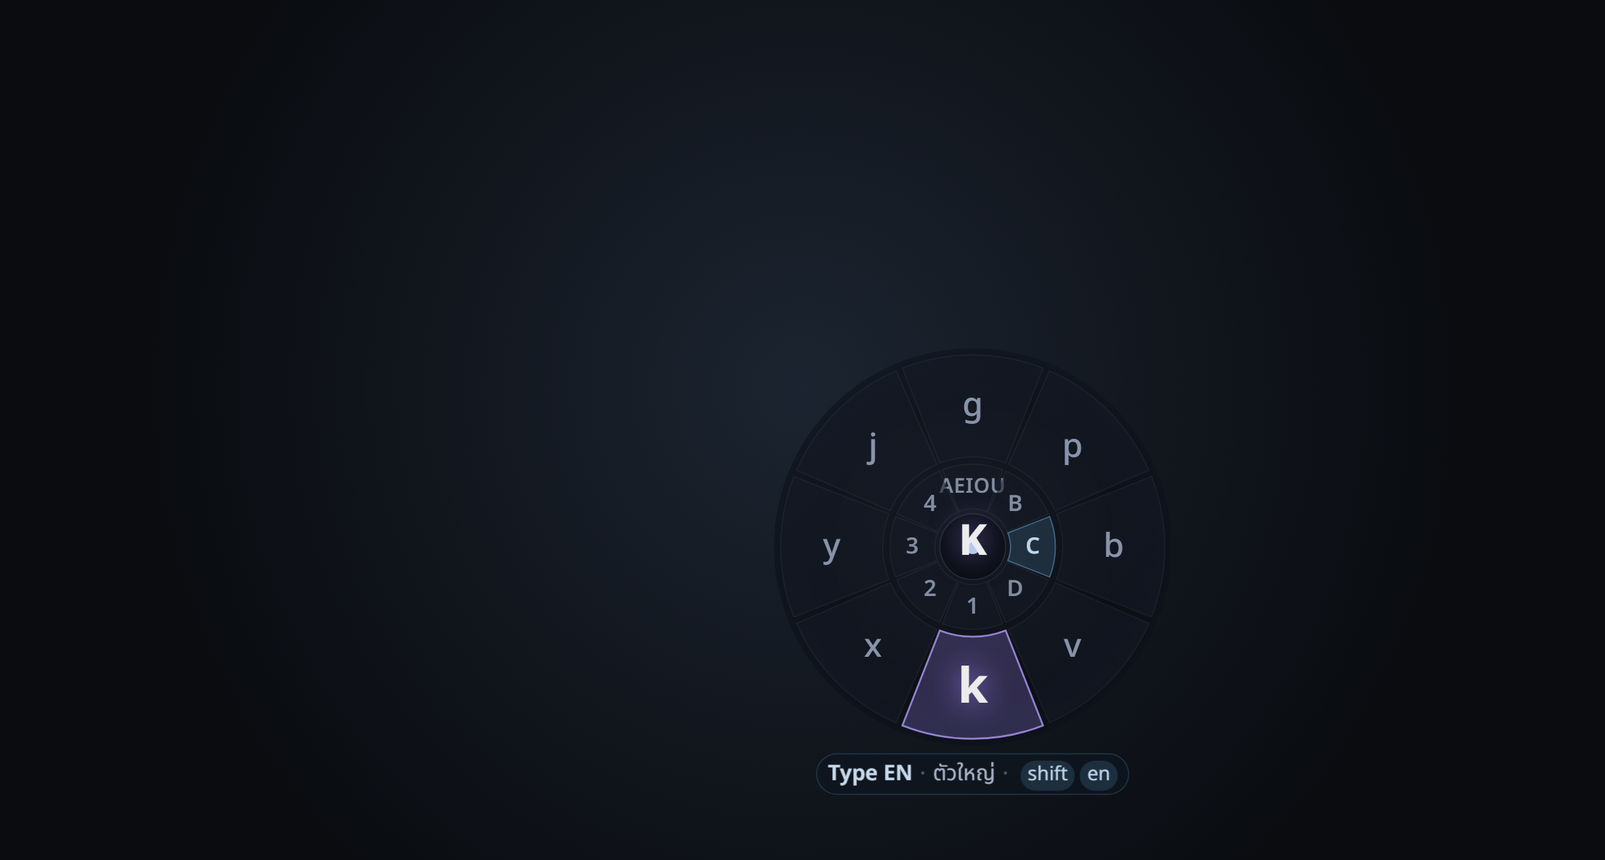
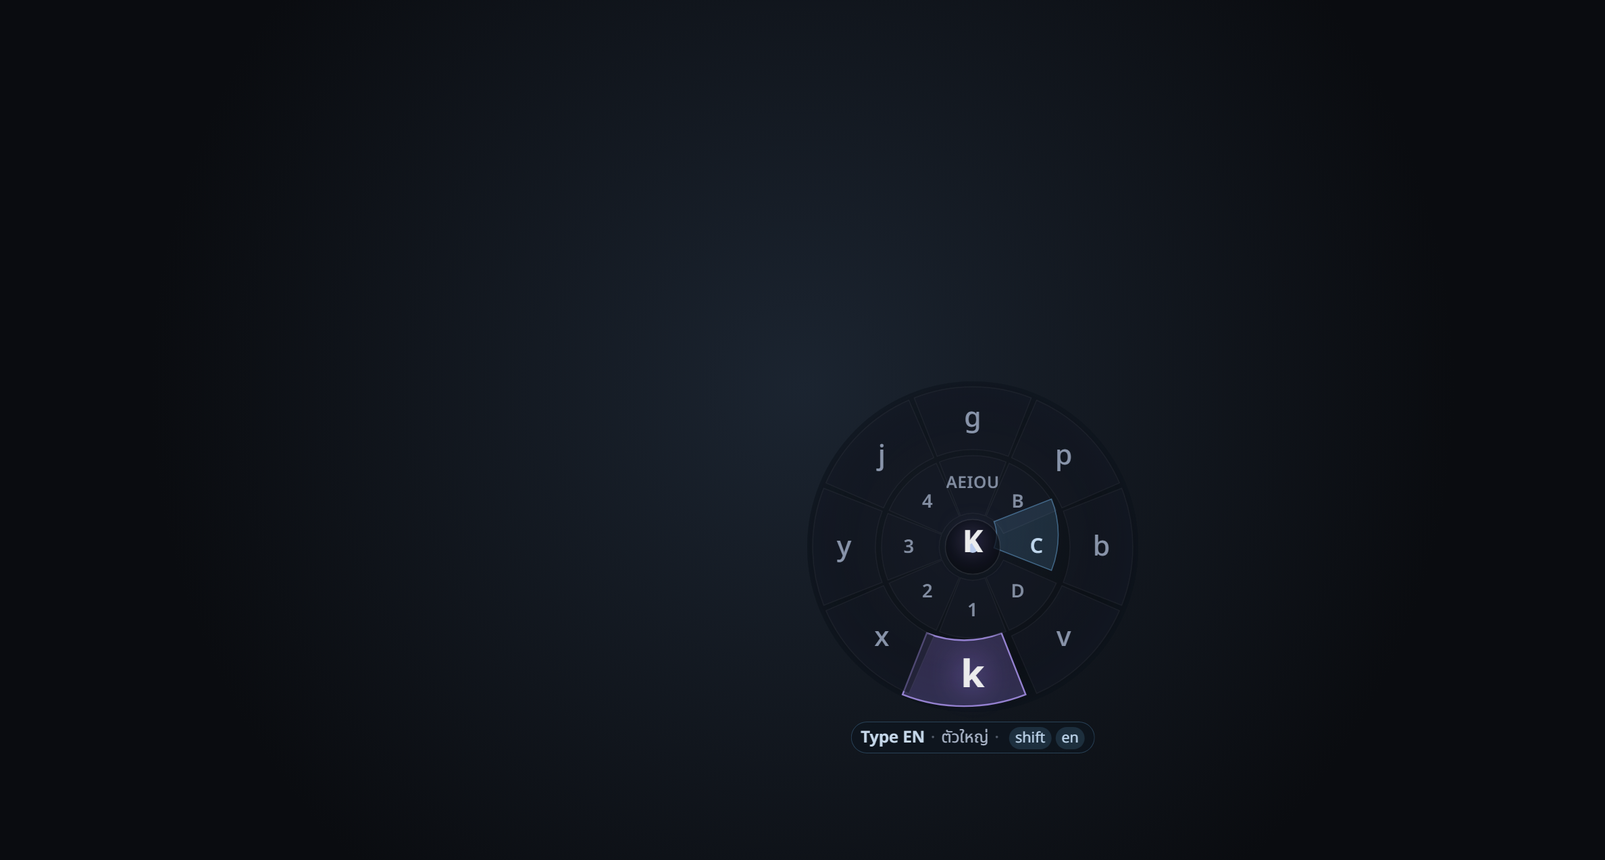
docs: ADR-17 ring geometry, handoff v0.3 with round-2 feedback, refreshed screenshots

diff --git a/project menager/Design/04-decisions/17-hud-ring-geometry-and-active-animation.md b/project menager/Design/04-decisions/17-hud-ring-geometry-and-active-animation.md
@@ -1,0 +1,109 @@
+---
+title: ADR-17 — วงเล็กลง ตัวอักษรใหญ่ขึ้น + animation ตอนเลือก + ขีดกำกับสระล่าง
+status: accepted (P4 slice 4)
+updated: 2026-11-15
+tags: [decision, hud, typography, thai, animation, settings]
+---
+
+# ADR-17 — Ring ที่เล็กลงแต่ชัดขึ้น, active animation, และเลิกใช้คำว่า "ขีดล่าง"
+
+## บริบท (feedback รอบ 2 จาก owner, 2026-11-15)
+
+1. **"ขีดล่าง"** — คำนี้โผล่ใต้สระ ุ ู อยากได้ **สัญลักษณ์** มากกว่า ถ้าไม่ได้ก็เอาคำออก
+2. **Active ควรมี animation** — ช่องที่เลือก (วงล้อ/วงตัวอักษร) ควรขยายให้เห็น
+3. **ไม่รู้จะเปิด Settings ตรงไหน** เพื่อเลื่อน text size
+4. **ขนาดวงล้อใหญ่ไปนิด** — ย่อลงได้ แต่ยังต้อง **ชัดเจน** เรื่องตัวอักษร
+
+พร้อมกันนั้น การตรวจของ session ก่อนหน้าเจอ **บั๊กในตัววัด**: `getBBox()` ของ `<text>` ไม่ serialize ผ่าน CDP
+→ ผล "ไม่ชนกัน" เป็น false positive; วัดใหม่ด้วย ink box แล้วพบว่า **วรรณยุกต์/กลาง ชนกัน 6%** ที่ text scale 1.2
+(ตรงกับที่ owner เห็นว่าอ่านยาก)
+
+## การตัดสินใจ
+
+### 1. ขนาด: วงเล็กลง + ตัวอักษรใหญ่ขึ้น (ไม่ใช่แลกกัน)
+
+| | ก่อน (ADR-16) | หลัง (ADR-17) |
+| --- | --- | --- |
+| `hudScale` (วง) | 1.2 → 408px | **1.0 → 340px** (ขนาดที่ออกแบบ) |
+| `hudTextScale` | 1.2 | **1.4** |
+| group label (จริง) | 13.8px | **15.96px** |
+| ป้ายยาว (len-m) | 12.6px | **14.28px** |
+| char | 20.4–30px | **25.2px** (เลือก = ขยายด้วย transform 1.3) |
+| pill | 13.2px | **14.0px** |
+| วงเล็กลง | — | **−17%** |
+
+ตัวคูณ 2 ตัวยังแยกกัน (ADR-16) — วงย่อได้โดยตัวอักษรไม่ย่อ
+
+### 2. วงในกว้างขึ้น เพื่อให้ป้ายไทยมีที่
+
+| | ก่อน | หลัง |
+| --- | --- | --- |
+| วงใน (กลุ่ม) | 31–68 · text r=49.5 | **33–90 · text r=63** |
+| chord ที่ text | 37.9 u | **46.7 u (+23%)** |
+| วงนอก (char) | 74–158 · text r=116 | **96–158 · text r=127** |
+| วงคำสั่ง/ภาษา | 34–96 · text r=66 | **36–112 · text r=76** |
+
+### 3. ป้ายกลุ่มยาว = 2 บรรทัด (ไม่ย่อจนอ่านไม่ออก)
+
+- ป้าย ≥ **7 grapheme cluster** → แบ่ง 2 บรรทัดครึ่งกลาง (`Intl.Segmenter('th')` — ไม่ตัดสระ/วรรณยุกต์ออกจากพยัญชนะ)
+  เช่น `วรรณยุกต์` → `วรรณ` / `ยุกต์`
+- `len-m` / `len-l` นับตาม **grapheme** ไม่ใช่ code point (พยัญชนะ = 6 clusters ไม่ใช่ 7 → ไม่ถูกย่อเกินจำเป็น)
+- ป้าย 5–6 clusters ยังบรรทัดเดียวที่ 14.28px
+
+### 4. "ขีดล่าง" → ขีดจริงเหนือสระล่าง (ทำตาม ADR-12 ที่ค้างอยู่)
+
+- `hud.js` วาด `<line class="char-guide">` เป็น **เส้นประสั้น** เหนือ ุ ู ฺ (สว่างขึ้นเมื่อถูกเลือก)
+- ลบ `"badge": "ขีดล่าง"` ออกจาก `hud-state.samples.json` + `assets/hud-demo-states.json`
+- HUD ตัดสินเองด้วยชุดอักขระ 3 ตัว (เหมือนม็อกอัป v0.11 `isBelowMark`) — ไม่เพิ่ม field ใน contract
+
+### 5. Active = ขยาย (animation)
+
+| องค์ประกอบ | effect | origin |
+| --- | --- | --- |
+| sector (group/char/cmd/lang) | `scale(1.05–1.07)` | **ศูนย์กลางวง** (`transform-box: view-box`) → ปูดออกจากกลาง |
+| label ที่เลือก | `scale(1.1–1.3)` | **กลางของตัวเอง** (`transform-box: fill-box`) |
+| เปลี่ยนจาก `font-size` → `transform` | เพื่อให้ motion เนียนและไม่ดัน layout | `transition: transform 0.2s var(--ease-out)` |
+
+`prefers-reduced-motion` ยังใช้ได้ (transition ถูกตัดให้เกือบทันที)
+
+### 6. เปิด Settings ได้จาก 2 ทาง
+
+- **คลิกซ้ายที่ไอคอน tray** (ใหม่) หรือคลิกขวา → Settings… (ไอคอนอาจอยู่ในถาดซ่อน `^`)
+- `run.ps1 -- --demo --settings` เปิดหน้าต่างมาพร้อมกัน
+- เพิ่ม **Ring size slider** (0.8–1.6) ใน Settings → HUD เพื่อปรับวงได้เองโดยไม่ต้องรอ build
+- หน้าต่าง Settings ยกตัวเองขึ้นมา (`focused` + `set_focus`) หลังสร้าง
+
+### 7. `ui.hudScale` ถูกประทับลง `HudState.scale` โดยแอป
+
+- source of truth เดียว: config → app stamp ทุกเฟรม → HUD อ่าน `state.scale`
+- `save_config` ส่ง state ปัจจุบันซ้ำทันที เพื่อให้ slider เห็นผลทันที (ไม่ต้องรอ tick ถัดไป)
+- ลำดับ lock ที่ใช้ทั้งไฟล์: **config → demo → origin** (กัน deadlock กับ thread ของ demo)
+
+## ผลที่ตามมา
+
+- `ui/hud/hud.js` — geometry ใหม่, `graphemes()`/`renderLines()`, `char-guide`, class `is-armed` บน label
+- `ui/hud/hud.css` — `--fs-*` ใหม่, transform/transition, `.char-guide`
+- `ui/settings/*` — Ring size slider, ค่าเริ่มต้น 1.4/1.0, preview ใช้ base เดียวกับ HUD
+- `crates/rnitype-app` — `hud_scale()` + stamp, re-emit หลัง save, tray left click, window focus, ขนาดหน้าต่าง 560×880
+- `tools/tests/hud-typography.mjs` — **ink box** แทน `getBBox()` (แก้ false pass), เพิ่ม 5 checks (guide, 2 บรรทัด, animation ×3, sub ของวงคำสั่ง)
+- ตัวเลขใน ADR-16 (ขนาด/ค่าเริ่มต้น) ถูกแทนที่ด้วย ADR-17 — โครงสร้างการตัดสินใจ (2 ตัวคูณ, `hud:style`, ฟอนต์) ยังใช้อยู่
+
+## หลักฐาน (2026-11-15)
+
+| หลักฐาน | ผล |
+| --- | --- |
+| `cargo test --workspace` | **91 passed** (app 7 + core 50 + win 34) |
+| `node tools/contracts/validate.mjs` | 10/10 |
+| `node tools/tests/hud-smoke.mjs` | 54/54 |
+| `node tools/tests/hud-typography.mjs` | **29/29** (ไม่มี label ชนกันทั้งวงกลุ่ม/ตัวอักษร/วงคำสั่ง) |
+| E2E กับแอปจริง | save 1.5/1.3 → HUD `--hud-text-scale 1.50`, stage 442px, config.json ตรง; reset → 340px |
+| screenshot | `05-mockup/hud-shots/` — typing/command 100–150% DPI, Settings window จริง, overlay จริง |
+
+## ความเสี่ยง
+
+| ความเสี่ยง | ระดับ | ทางรับมือ |
+| --- | --- | --- |
+| ป้าย 2 บรรทัดดูสูงกว่าช่องอื่น | ต่ำ | ใช้เฉพาะป้าย ≥ 7 clusters; ขนาด 14.28px เท่า len-m |
+| แบ่งคำไทยกลางคำ (วรรณ/ยุกต์) อ่านสะดุด | ต่ำ | ตัดที่ grapheme boundary; ถ้ารับไม่ได้ให้แก้ label ที่ต้นทาง (keymap) ให้สั้นลง |
+| animation ทำให้อ่านไม่ทันตอนกดเร็ว | ต่ำ | 0.2s และขยายไม่เกิน 1.3; ปิดได้ด้วย reduced-motion |
+| ค่า default ใหม่ทับ config เดิมของผู้ใช้ | ต่ำ | ค่าเดิมใน config ยังชนะ (default ใช้เมื่อไม่มีค่า) |

diff --git a/project menager/Design/HANDOFF.md b/project menager/Design/HANDOFF.md
@@ -16,7 +16,7 @@ tags: [handoff]
 | --- | --- |
 | ผลิตภัณฑ์ | Windows background utility: จอย Xbox/DualSense ใช้ **พิมพ์แทนคีย์บอร์ด** และ **แทนเมาส์** มีหน้าตั้งค่าแบบ Logi Options+ |
 | ช่องทางขาย | Steam + itch.io (ทั้งคู่รับ .exe/.zip — ไม่ต้องใช้เอนจิน) |
-| สถานะ | **P0/P1 ปิด · P2/P3 slice 1 · P4 overlay+typography · P5 slice 1 (Settings→HUD) — 90 tests** |
+| สถานะ | **P0/P1 ปิด · P2/P3 slice 1 · P4 overlay+typography+geometry · P5 slice 1 (Settings→HUD) — 91 tests** |
 | สแตก | **Rust** (core) + **Tauri v2** (UI/tray) + **gilrs** (จอย, fallback `sdl3`) + `SendInput` |
 | แผนสำรอง | C# .NET 8 + WPF/WinUI (ถอยได้ทุกเมื่อ เอกสารใช้ร่วมกันได้) |
 | งานถัดไป | Runtime wiring: จอย → core → injector → HUD ใน `rnitype-app` |
@@ -36,8 +36,9 @@ tags: [handoff]
 11. **ไม่ใช้ Godot** — [[02-engine-choice-godot]]
 12. **ภาษาหลัก = Rust + Tauri v2** — [[03-stack-rust]]
 13. ไฟล์ออกแบบอยู่ใน `Design/` + sub-folder (ตาม canvas)
-14. **Typography แยก 2 ตัวคูณ**: `hudScale` (วง, 1.2) ≠ `hudTextScale` (ตัวหนังสือ, 1.2) · ฟอนต์ไทย **ไม่มีหัว = IBM Plex Sans Thai** (fallback Noto Sans Thai) · ส่งค่าด้วย event `hud:style` ไม่ใช่ HudState · **Settings window (ภาษาอังกฤษ) มี slider + ฟอนต์** — [[16-hud-typography-and-fonts]]
+14. **Typography แยก 2 ตัวคูณ**: `hudScale` (วง, **1.0 = 340px**) ≠ `hudTextScale` (ตัวหนังสือ, **1.4**) · ฟอนต์ไทย **ไม่มีหัว = IBM Plex Sans Thai** (fallback Noto Sans Thai) · ส่งค่าด้วย event `hud:style` ไม่ใช่ HudState · **Settings window (ภาษาอังกฤษ) มี slider ขนาดตัวอักษร + ขนาดวง + ฟอนต์** — [[16-hud-typography-and-fonts]] · [[17-hud-ring-geometry-and-active-animation]]
 15. **pivot/pointer ใน HudState = พิกัดในหน้าต่าง overlay** (0,0 = virtual desktop) — app แปลงจากพิกัดหน้าจอ ก่อน emit
+16. **ป้ายกลุ่มไทยยาว ≥ 7 grapheme = 2 บรรทัด** · สระล่าง ุ ู มี **ขีดเส้นประ** (ไม่ใช่คำว่า "ขีดล่าง") · ช่องที่ active **ขยาย** (sector ปูดจากกลางวง, ตัวอักษรขยายในที่) — [[17-hud-ring-geometry-and-active-animation]]
 
 ## 3. โครงสร้างไฟล์
 
@@ -78,6 +79,7 @@ project menager/
    │  ├─ 14-universal-languages.md  ← ADR-14 (หลายภาษา + Settings window)
    │  ├─ 15-gilrs-xinput-backend.md ← ADR-15 (gilrs XInput)
    │  └─ 16-hud-typography-and-fonts.md ← ADR-16 (ขนาดตัวหนังสือ + ฟอนต์ไม่มีหัว)
+   │  └─ 17-hud-ring-geometry-and-active-animation.md ← ADR-17 (วงเล็กลง/ชัดขึ้น + animation + ขีดสระล่าง)
    └─ 05-mockup/
       ├─ hud-prototype/        ← ม็อกอัป HUD v0.11 (index.html + hud.js + styles.css)
       └─ hud-shots/            ← screenshot ตรวจรับ (100%/150% DPI, overlay จริง, Settings)
@@ -137,10 +139,10 @@ crates\rnitype-app\run.ps1 -- --demo --seconds 30
 crates\rnitype-app\run.ps1 -- --demo --settings --seconds 60
 ```
 
-- Tray → Settings… / Quit (หรือ `Ctrl+C` ใน terminal)
+- Tray → **คลิกซ้าย** = Settings · คลิกขวา = เมนู (Settings… / Quit) · หรือ `Ctrl+C` ใน terminal
 - ไม่มี `--demo` = HUD idle (รอ runtime จริง)
 - path มี apostrophe → ใช้ `run.ps1`; build.rs copy icon ไป `%TEMP%` ให้ `cargo test/check` ทำงานได้เอง
-- typography: เปลี่ยนใน Settings → HUD เปลี่ยนทันที (event `hud:style`) · ค่าถูกเก็บที่ `%APPDATA%\RniType\config.json`
+- typography/ขนาดวง: เปลี่ยนใน Settings → HUD เปลี่ยนทันที (`hud:style` + `hud:state`) · ค่าเก็บที่ `%APPDATA%\RniType\config.json`
 
 ### 4.5 UI feedback จาก owner (2026-11-15) — ✅ ปิดแล้ว (ADR-16)
 
@@ -153,11 +155,22 @@ crates\rnitype-app\run.ps1 -- --demo --settings --seconds 60
 | 2 | ฟอนต์ไทยไม่มีหัว | **IBM Plex Sans Thai** (4 น้ำหนัก) + Noto Sans Thai fallback + OFL ใน `ui/shared/fonts/` · เลิกใช้ Leelawadee เป็นค่าเริ่มต้น |
 | 3 | Settings → HUD | slider 0.8–2.0 (default 1.2) + 3 ฟอนต์ + preview + Reset → save ลง `config.json` ทันที |
 | 4 | Contract | `ui.hudTextScale` + `ui.hudFontFamily` (config v1) · event **`hud:style`** + command **`hud_style`** (ipc v1.1, additive) — [[16-hud-typography-and-fonts]] |
-| 5 | ตรวจรับ | `hud-typography.mjs` **24/24** + screenshot 100%/150% DPI + overlay จริง + Settings → `05-mockup/hud-shots/` · contrast ตัวอักษรจาง **6.87:1** |
+| 5 | ตรวจรับ | `hud-typography.mjs` **29/29** + screenshot 100%/150% DPI + overlay จริง + Settings → `05-mockup/hud-shots/` · contrast ตัวอักษรจาง **6.87:1** |
 
-**สิ่งที่ owner ควรดูก่อนปล่อย:** เปิด Settings เลื่อน text size 1.0 / 1.2 / 1.5 บนจอจริงของตัวเอง
-(3840×1080 + DPI ที่ใช้จริง) แล้วบอกว่า 1.2 พอดีหรืออยากได้ค่าเริ่มต้นอื่น — ค่าเดียวที่ต้องแก้คือ
-`ui.hudTextScale` ใน `config.schema.json` + `crates/rnitype-app/src/config.rs` + `hud.css` (`STYLE_DEFAULT`)
+### 4.5b UI feedback รอบ 2 (2026-11-15) — ✅ ปิดแล้ว (ADR-17)
+
+| สิ่งที่ owner ขอ | ผล |
+| --- | --- |
+| คำว่า **"ขีดล่าง"** ใต้ ุ ู → อยากได้สัญลักษณ์ | วาด **เส้นประสั้น** เหนือสระล่าง (ทำตาม ADR-12) · ลบคำออกจาก contract samples |
+| Active ต้องมี **animation ขยาย** | sector ปูดจากกลางวง (1.05–1.07) · ตัวอักษรขยายในที่ (1.1–1.3) · 0.2s ease-out |
+| **เปิด Settings ตรงไหน** | **คลิกซ้ายที่ไอคอน tray** หรือคลิกขวา → Settings… · หรือ `--settings` (ไอคอนอาจอยู่ในถาดซ่อน `^`) |
+| วงล้อ**ใหญ่ไปนิด** แต่ตัวอักษรต้องชัด | วง 408 → **340px (−17%)** · ตัวอักษร **ใหญ่ขึ้น** (group 13.8 → **16px**) · เพิ่ม **Ring size slider** ใน Settings |
+
+พร้อมแก้บั๊กตัววัด: `getBBox()` ไม่ serialize ผ่าน CDP → test เดิมรายงาน "ไม่ชนกัน" ทั้งที่ **วรรณยุกต์/กลาง ชนกัน 6%**
+ตอนนี้ใช้ **ink box** (ความกว้างจริง + ความสูงตามฟอนต์) และเพิ่ม 5 checks
+
+**ยังค้างให้ owner ยืนยัน:** เปิด Settings → เลื่อน Text size 1.2/1.4/1.6 และ Ring size 0.9/1.0/1.1 บนจอจริง
+แล้วบอกว่าเริ่มต้นที่ 1.4/1.0 พอดีไหม
 
 ### 4.6 เริ่ม session หน้า
 

diff --git a/project menager/Design/README.md b/project menager/Design/README.md
@@ -58,6 +58,7 @@ updated: 2026-11-15
 | [[14-universal-languages]] | ADR: รองรับทุกภาษา (layout + IME), Settings window แยก, English UI, Reset |
 | [[15-gilrs-xinput-backend]] | ADR: WGI ไม่ส่ง event บนเครื่อง owner → ใช้ gilrs XInput backend |
 | [[16-hud-typography-and-fonts]] | ADR: ขนาดตัวหนังสือแยกจากขนาดวง + ฟอนต์ไทยไม่มีหัว (IBM Plex Sans Thai) + Settings→HUD |
+| [[17-hud-ring-geometry-and-active-animation]] | ADR: วง 340px/ตัวอักษร 16px, วงในกว้างขึ้น, ป้าย 2 บรรทัด, ขีดสระล่าง, active animation, Ring size slider |
 | [[hud-v0.9]] | บันทึก HUD: ภาพเทียบ A/B (v0.9) + สรุป v0.10 |
 | `05-mockup/hud-prototype/` | ม็อกอัป HUD v0.11 (เน้น EN+TH, หลายภาษา, Settings window, Keymap editor, pivot) |
 | `05-mockup/hud-shots/` | screenshot ตรวจรับ typography (100%/150% DPI), overlay จริง, Settings |
@@ -75,7 +76,7 @@ updated: 2026-11-15
 | ภาษา | ทุก layout ที่ติดตั้งใน Windows — EN/TH ใช้ตารางออกแบบ, อื่นๆ map จาก QWERTY แล้วแก้ได้; IME ส่งคีย์ให้ OS ประกอบ · **ช่องภาษาอื่น**: 1 ภาษา = สลับทันที, หลายภาษา = `Lang`, ไม่มีภาษา = ซ่อน |
 | ตั้งค่า | หน้าต่างแยก ภาษาอังกฤษ (General · Languages · Keymap · HUD) + Reset all to defaults |
 | HUD | ตรึงที่ **pivot** (ไม่ตามเมาส์) — Nav = โหมดจัดตำแหน่ง UI |
-| Typography | ฟอนต์ไทย **ไม่มีหัว** = IBM Plex Sans Thai (fallback Noto Sans Thai) · **text size 0.8–2.0 (default 1.2)** แยกจากขนาดวง ([[16-hud-typography-and-fonts]]) |
+| Typography | ฟอนต์ไทย **ไม่มีหัว** = IBM Plex Sans Thai (fallback Noto Sans Thai) · **text size 0.8–2.0 (default 1.4)** และ **ring size 0.8–1.6 (default 1.0 = 340px)** แยกจากกัน · ช่องที่ active ขยาย ([[17-hud-ring-geometry-and-active-animation]]) |
 | ภาษาไทย | วรรณยุกต์ ่ ้ ๊ ๋ อยู่กลุ่ม ↘ เดียวกัน · สระล่าง ุ ู มีขีดกำกับใน HUD |
 | หลักการ HUD | วงใน = สิ่งที่ LS เลือก · วงนอก = สิ่งที่ RS เลือก · idle เหลือ pill สถานะ (เปิดวงตลอดได้) |
 | เทคโนโลยี | Rust + Tauri v2 + gilrs/SDL3 + SendInput (แผนสำรอง: C# .NET 8) — ดู [[03-stack-rust]] |

diff --git a/project menager/Design/03-engineering/02-roadmap-and-smoke-tests.md b/project menager/Design/03-engineering/02-roadmap-and-smoke-tests.md
@@ -48,8 +48,8 @@ tags: [plan, testing]
 | --- | --- | --- |
 | `tools/contracts/validate.mjs` | ตรวจ `hud-state.samples.json` + `config.sample.json` กับ schema | **10/10** |
 | `tools/tests/hud-smoke.mjs` | ขับม็อกอัป v0.11 ด้วย CDP (วง/คำสั่ง/โหมด/สถานะ) | **54/54** |
-| `tools/tests/hud-typography.mjs` | ตรวจขนาดขั้นต่ำ/การชนกัน/contrast/text scale + screenshot 100%–150% DPI | **24/24** |
-| `cargo test --workspace` | core 50 · win 34 · app 6 (config) | **90/90** |
+| `tools/tests/hud-typography.mjs` | ตรวจขนาดขั้นต่ำ/การชนกัน/contrast/animation + screenshot 100%–150% DPI | **29/29** |
+| `cargo test --workspace` | core 50 · win 34 · app 7 (config) | **91/91** |
 
 **ชุดประโยคทดสอบ**: ใช้ 500 phrases ของ MacKenzie & Soukoreff (มาตรฐานงานวิจัย text entry)
 → ผลของเราจะเทียบกับงานวิจัย (TwoStick 13–14.9 WPM) ได้ตรงๆ
@@ -61,6 +61,7 @@ tags: [plan, testing]
 | --- | --- | --- | --- | --- | --- | --- |
 | 2026-11-15 | M0 | — | — | — | — | P0 ผ่าน: A XInput 16 ปุ่ม · B click-through · C SendInput ไทย (DualSense เลื่อน) |
 | 2026-11-15 | P4 slice 3 | — | — | — | — | Typography: group 13.8 / char 20.4–30 / pill 13.2 px · contrast 6.87:1 · 24/24 checks · ยังไม่มี WPM (รอ runtime) |
+| 2026-11-15 | P4 slice 4 | — | — | — | — | Ring 340px + text 16px (วงเล็กลง 17%) · active animation · ขีดสระล่าง · 29/29 checks |
 
 ## 5. ความเสี่ยงและทางถอย
 

diff --git a/project menager/Design/04-decisions/16-hud-typography-and-fonts.md b/project menager/Design/04-decisions/16-hud-typography-and-fonts.md
@@ -1,11 +1,14 @@
 ---
 title: ADR-16 — Typography ของ HUD (ขนาดตัวหนังสือ + ฟอนต์ไทยไม่มีหัว)
-status: accepted (P4 slice 3 + P5 slice 1)
+status: accepted (P4 slice 3 + P5 slice 1) — ขนาด/ค่าเริ่มต้นถูกปรับต่อใน ADR-17
 updated: 2026-11-15
 tags: [decision, hud, typography, thai, font, settings]
 ---
 
 # ADR-16 — Typography: text scale แยกจาก ring scale + IBM Plex Sans Thai
+
+> ตัวเลขขนาด/ค่าเริ่มต้นในไฟล์นี้เป็นของรอบแรก — ถูกแทนที่ด้วย [[17-hud-ring-geometry-and-active-animation]]
+> (ring 1.0 · text 1.4 · วงในกว้างขึ้น · ป้าย 2 บรรทัด) ส่วน *การตัดสินใจ* (2 ตัวคูณ, `hud:style`, ฟอนต์) ยังใช้อยู่
 
 ## บริบท
 
